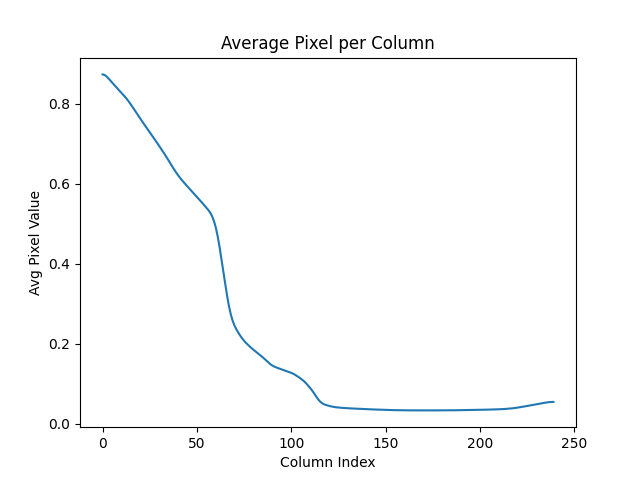
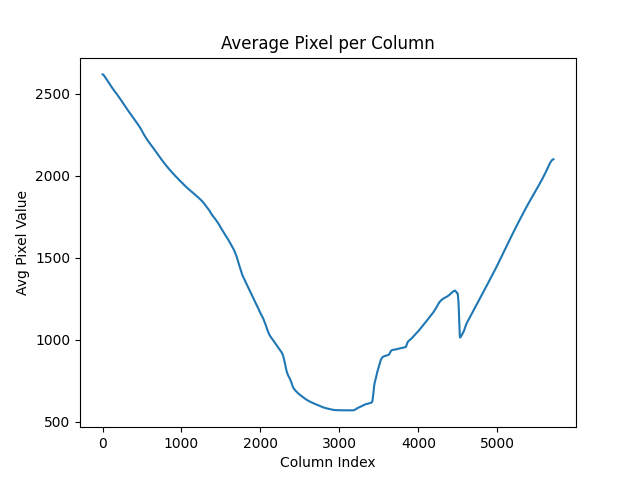
Implementing basic k-clustering

diff --git a/python_server/depth_estimation_utils.py b/python_server/depth_estimation_utils.py
@@ -4,9 +4,13 @@ import torch
 import numpy as np
 from sklearn.cluster import KMeans
 import time
+import random
+import matplotlib.pyplot as plt
 
 # Load MiDaS model and transformations
-model_type = "MiDaS_small"
+# model_type = "DPT_Large"     # MiDaS v3 - Large     (highest accuracy, slowest inference speed)
+model_type = "DPT_Hybrid"   # MiDaS v3 - Hybrid    (medium accuracy, medium inference speed)
+# model_type = "MiDaS_small"  # MiDaS v2.1 - Small   (lowest accuracy, highest inference speed)
 print(f"Loading MiDaS model: {model_type}")
 midas = torch.hub.load("intel-isl/MiDaS", model_type)
 device = torch.device("cuda") if torch.cuda.is_available() else torch.device("cpu")
@@ -45,23 +49,199 @@ def apply_kmeans_with_spatial(depth_map, num_clusters=3):
     print("[INFO] Starting K-means clustering process...")
     start_time = time.time()
 
-    height, width = depth_map.shape
+    # Get original dimensions
+    original_height, original_width = depth_map.shape
+
+    # Calculate new width while maintaining aspect ratio
+    fixed_height = 256
+    aspect_ratio = original_width / original_height
+    new_width = int(fixed_height * aspect_ratio)
+
+    # Resize the depth map to fixed height (256) and new width
+    resized_depth_map = cv2.resize(depth_map, (new_width, fixed_height), interpolation=cv2.INTER_LINEAR)
+
+    # Create meshgrid for spatial information
+    height, width = resized_depth_map.shape
     y_coords, x_coords = np.meshgrid(np.arange(height), np.arange(width), indexing='ij')
     
-    depth_flat = depth_map.flatten()
+    # Flatten the arrays
+    depth_flat = resized_depth_map.flatten()
     x_flat = x_coords.flatten()
     y_flat = y_coords.flatten()
 
+    # Normalize depth and coordinates
     depth_normalized = (depth_flat - np.min(depth_flat)) / (np.max(depth_flat) - np.min(depth_flat) + 1e-6)
     x_normalized = x_flat / width
     y_normalized = y_flat / height
 
+    # Stack features for clustering
     features = np.stack([x_normalized, y_normalized, depth_normalized], axis=1)
-    print("[INFO] Running KMeans...")
+    print(features.shape)
+    print("[INFO] Running K-Means...")
+    
+    # Apply K-means clustering
     kmeans = KMeans(n_clusters=num_clusters, random_state=0).fit(features)
 
-    clustered_map = kmeans.labels_.reshape(depth_map.shape)
+    # Reshape the clustered labels back to the resized depth map's shape
+    clustered_map = kmeans.labels_.reshape(resized_depth_map.shape)
+    cluster_centers = kmeans.cluster_centers_
 
     end_time = time.time()
     print(f"[INFO] K-means clustering completed in {end_time - start_time:.4f} seconds.")
-    return clustered_map
+    
+    return clustered_map, cluster_centers
+
+# Function to calculate the center of mass (centroid) of each cluster
+def calculate_cluster_centroids(clustered_map):
+    centroids = []
+    for cluster_id in np.unique(clustered_map):
+        mask = clustered_map == cluster_id
+        y_coords, x_coords = np.where(mask)
+        
+        if len(y_coords) > 0 and len(x_coords) > 0:
+            center_x = int(np.mean(x_coords))
+            center_y = int(np.mean(y_coords))
+            centroids.append((center_x, center_y, cluster_id))
+    
+    return centroids
+
+# Function to colorize clusters for visualization
+def colorize_clusters(clustered_map):
+    height, width = clustered_map.shape
+    colorized_image = np.zeros((height, width, 3), dtype=np.uint8)
+
+    # Assign random colors for each cluster
+    num_clusters = len(np.unique(clustered_map))
+    colors = [tuple([random.randint(0, 255) for _ in range(3)]) for _ in range(num_clusters)]
+
+    for cluster_id in range(num_clusters):
+        mask = clustered_map == cluster_id
+        colorized_image[mask] = colors[cluster_id]
+
+    # Save the colorized cluster image
+    colorized_image_path = './colorized_clusters.png'
+    cv2.imwrite(colorized_image_path, colorized_image)
+    
+    return colorized_image_path
+
+# # Function to annotate and save the image with object locations and depths
+# def annotate_image_with_depth(image_path, clustered_map, centroids, cluster_centers):
+#     img = cv2.imread(image_path)
+    
+#     # Loop through the centroids and annotate the image
+#     for centroid in centroids:
+#         center_x, center_y, cluster_id = centroid
+#         depth_value = cluster_centers[cluster_id][0]
+        
+#         # Draw a circle at the centroid
+#         cv2.circle(img, (center_x, center_y), 10, (0, 255, 0), 2)
+        
+#         # Put the depth value next to the centroid
+#         cv2.putText(img, f"{depth_value:.2f}", (center_x + 15, center_y), cv2.FONT_HERSHEY_SIMPLEX, 0.5, (0, 0, 255), 2)
+    
+#     # Save the annotated image
+#     output_image_path = './annotated_image.jpg'
+#     cv2.imwrite(output_image_path, img)
+    
+#     return output_image_path
+
+# def annotate_image_with_depth(image_path, clustered_map, centroids, depth_map):
+#     # Read the image
+#     img = cv2.imread(image_path)
+#     if img is None:
+#         print(f"[ERROR] Image not found or unable to load: {image_path}")
+#         return None
+    
+#     height, width = clustered_map.shape
+
+#     # Ensure the image size matches the cluster map size (rescale if necessary)
+#     img = cv2.resize(img, (width, height))
+
+#     # Loop through the centroids and annotate the image
+#     for centroid in centroids:
+#         center_x, center_y, cluster_id = centroid
+        
+#         # Get the depth value from the depth map at the centroid location
+#         depth_value = depth_map[center_y, center_x]
+        
+#         # Draw a circle at the centroid
+#         cv2.circle(img, (center_x, center_y), 10, (0, 255, 0), 2)
+        
+#         # Put the depth value next to the centroid
+#         cv2.putText(img, f"{depth_value:.2f}", (center_x + 15, center_y), cv2.FONT_HERSHEY_SIMPLEX, 0.5, (0, 0, 255), 2)
+    
+#     # Save the annotated image
+#     output_image_path = './annotated_image.jpg'
+#     cv2.imwrite(output_image_path, img)
+    
+#     return output_image_path
+
+def annotate_image_with_depth(image_path, clustered_map, centroids, depth_map):
+    # Read the image
+    img = cv2.imread(image_path)
+    if img is None:
+        print(f"[ERROR] Image not found or unable to load: {image_path}")
+        return None
+
+    # Get the sizes of the clustered map and the depth map
+    clustered_height, clustered_width = clustered_map.shape
+    depth_height, depth_width = depth_map.shape
+
+    # Ensure the image size matches the cluster map size (rescale if necessary)
+    img = cv2.resize(img, (clustered_width, clustered_height))
+
+    # Adjust the depth map to match the clustered map size by resizing it
+    resized_depth_map = cv2.resize(depth_map, (clustered_width, clustered_height), interpolation=cv2.INTER_LINEAR)
+
+    # Loop through the centroids and annotate the image
+    for centroid in centroids:
+        center_x, center_y, cluster_id = centroid
+
+        # Get the mask for the current cluster
+        cluster_mask = (clustered_map == cluster_id)
+
+        # Get the depth values for all the pixels within the cluster
+        cluster_depth_values = resized_depth_map[cluster_mask]
+
+        # Calculate the average depth of the cluster
+        if len(cluster_depth_values) > 0:
+            avg_depth_value = np.mean(cluster_depth_values)
+        else:
+            avg_depth_value = 0.0  # Handle edge case where there are no values
+
+        # Draw a circle at the centroid
+        cv2.circle(img, (center_x, center_y), 10, (0, 255, 0), 2)
+
+        # Put the average depth value next to the centroid
+        cv2.putText(img, f"{avg_depth_value:.2f}", (center_x + 15, center_y), cv2.FONT_HERSHEY_SIMPLEX, 0.5, (0, 0, 255), 2)
+
+    # Save the annotated image
+    output_image_path = './annotated_image.jpg'
+    cv2.imwrite(output_image_path, img)
+
+    return output_image_path
+
+# Function to visualize the depth map as a heatmap
+def save_depth_map_heatmap(depth_map):
+    plt.imshow(depth_map, cmap='plasma')  # Use 'plasma' colormap for heatmap
+    plt.colorbar()  # Add a color bar for reference
+    plt.title('Depth Map Heatmap')
+    heatmap_path = './depth_map_heatmap.png'
+    plt.savefig(heatmap_path)  # Save the heatmap as an image
+    plt.close()
+    return heatmap_path
+
+# Function to plot average pixel values for each column
+def avg_pixel_per_column(depth_map):
+    exaggerated_map = cv2.GaussianBlur(depth_map, (9, 9), 0)  # Apply kernel
+    
+    mean_per_column = np.mean(exaggerated_map, axis=0)
+    plt.plot(mean_per_column)  # Plot avg pixel values for each column
+    plt.title("Average Pixel per Column")
+    plt.xlabel("Column Index")
+    plt.ylabel("Avg Pixel Value")
+    avg_pixels_path = "./avg_pixels.png"
+    plt.savefig(avg_pixels_path)  # Save as an image
+    plt.close()
+    
+    return mean_per_column.tolist()

diff --git a/python_server/midas_server_clustering2.py b/python_server/midas_server_clustering2.py
@@ -2,7 +2,7 @@ from flask import Flask, request, jsonify, send_file
 from flask_cors import CORS
 import uuid
 import time
-from depth_estimation_utils import estimate_depth, apply_kmeans_with_spatial
+from depth_estimation_utils import *
 
 # Initialize Flask app
 app = Flask(__name__)
@@ -23,7 +23,7 @@ def process_image_and_kmeans_clusters():
         print("[ERROR] No selected image file.")
         return jsonify({"error": "No selected file"}), 400
 
-    file_path = f"./{uuid.uuid4()}_image.jpg"
+    file_path = f"./image.jpg"
     file.save(file_path)
     print(f"[INFO] Image saved at {file_path}.")
 
@@ -33,15 +33,58 @@ def process_image_and_kmeans_clusters():
         print(f"[ERROR] Depth estimation failed: {str(e)}")
         return jsonify({"error": f"Depth estimation failed: {str(e)}"}), 500
 
-    num_clusters = 3
-    clustered_map = apply_kmeans_with_spatial(depth_map, num_clusters)
+    num_clusters = 6
+    clustered_map, cluster_centers = apply_kmeans_with_spatial(depth_map, num_clusters)
+
+    # Calculate the centroids (center of mass) of each cluster
+    centroids = calculate_cluster_centroids(clustered_map)
+
+    # Create colorized image by groups
+    colorized_image_path = colorize_clusters(clustered_map)
+
+    # Annotate the image with object locations and depths
+    annotated_image_path = annotate_image_with_depth(file_path, clustered_map, centroids, depth_map)
+
+    # Save the depth map as a heatmap
+    depth_map_heatmap_path = save_depth_map_heatmap(depth_map)
+
+    # Get the average pixel per column
+    avg_pixels = avg_pixel_per_column(depth_map)
 
     end_time = time.time()
     print(f"[INFO] Total image processing completed in {end_time - start_time:.4f} seconds.")
 
-    return jsonify({
-        "message": "Processing complete",
+    response_data = []
+    for centroid in centroids:
+        center_x, center_y, cluster_id = centroid
+        depth_value = cluster_centers[cluster_id][0]  # Average depth value of the cluster
+        response_data.append({
+            "cluster_id": int(cluster_id),
+            "center_x": center_x,
+            "center_y": center_y,
+            "depth_value": float(depth_value)
     })
+
+    return jsonify({
+        "objects": response_data,
+        "annotated_image": annotated_image_path,
+        "depth_map_heatmap": depth_map_heatmap_path,
+        "avg_pixels_per_column": avg_pixels
+    })
+
+@app.route('/api/get-image', methods=['GET'])
+def get_annotated_image():
+    try:
+        return send_file('./annotated_image.jpg', mimetype='image/jpeg')
+    except FileNotFoundError:
+        return jsonify({"error": "Annotated image not found"}), 404
+
+@app.route('/api/get-heatmap', methods=['GET'])
+def get_depth_map_heatmap():
+    try:
+        return send_file('./depth_map_heatmap.png', mimetype='image/png')
+    except FileNotFoundError:
+        return jsonify({"error": "Depth map heatmap not found"}), 404
 
 if __name__ == "__main__":
     app.run(host="0.0.0.0", port=8775, debug=True)

diff --git a/python_server/spatial_clustering_test.py b/python_server/spatial_clustering_test.py
@@ -1,0 +1,42 @@
+# test_spatial_clustering.py
+import os
+import matplotlib.pyplot as plt
+import numpy as np
+from depth_estimation_utils import estimate_depth, apply_kmeans_with_spatial
+
+# Function to visualize clusters on depth map
+def visualize_clusters(clustered_map, depth_map):
+    plt.figure(figsize=(10, 5))
+
+    # Original depth map heatmap
+    plt.subplot(1, 2, 1)
+    plt.imshow(depth_map, cmap='plasma')
+    plt.title("Depth Map Heatmap")
+    plt.colorbar()
+
+    # Clustered map visualization
+    plt.subplot(1, 2, 2)
+    plt.imshow(clustered_map, cmap='tab20')
+    plt.title("K-means Clusters on Depth Map")
+    plt.colorbar()
+
+    plt.savefig('clustered_image_output.png')
+    plt.show()
+
+if __name__ == "__main__":
+    # Path to the image
+    image_path = os.path.expanduser("~/mhacks-2024/python_server/test2.jpeg")
+    
+    # Make sure the image exists
+    if os.path.exists(image_path):
+        # Estimate depth
+        depth_map = estimate_depth(image_path)
+
+        # Apply K-means clustering
+        num_clusters = 3
+        clustered_map = apply_kmeans_with_spatial(depth_map, num_clusters)
+
+        # Visualize clusters and depth map
+        visualize_clusters(clustered_map, depth_map)
+    else:
+        print(f"Error: Image file {image_path} not found.")
